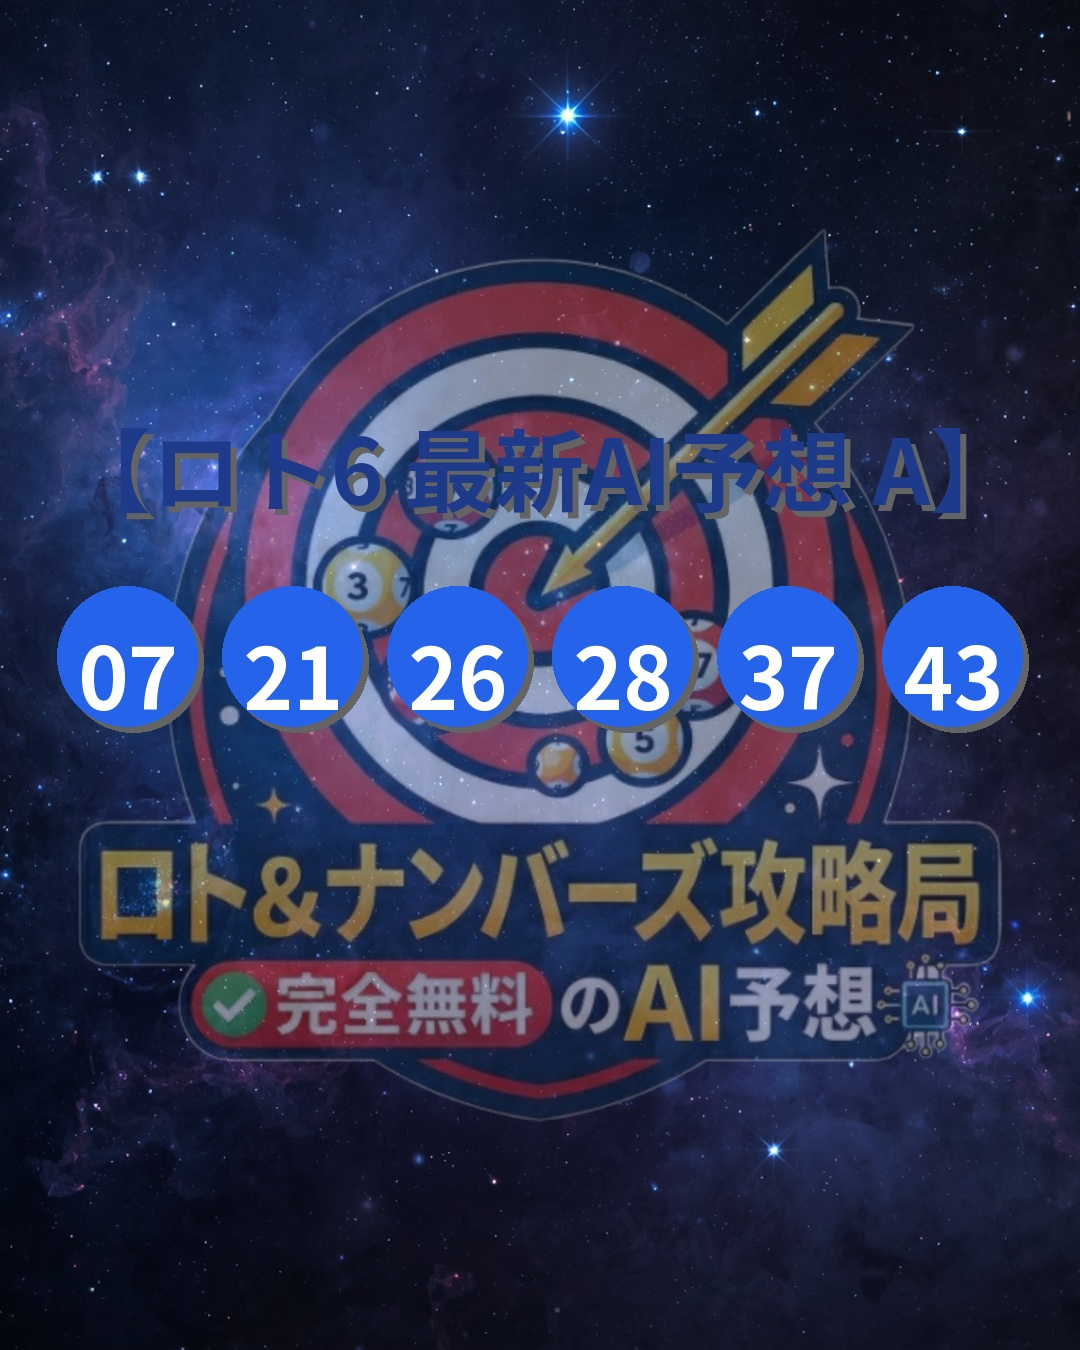
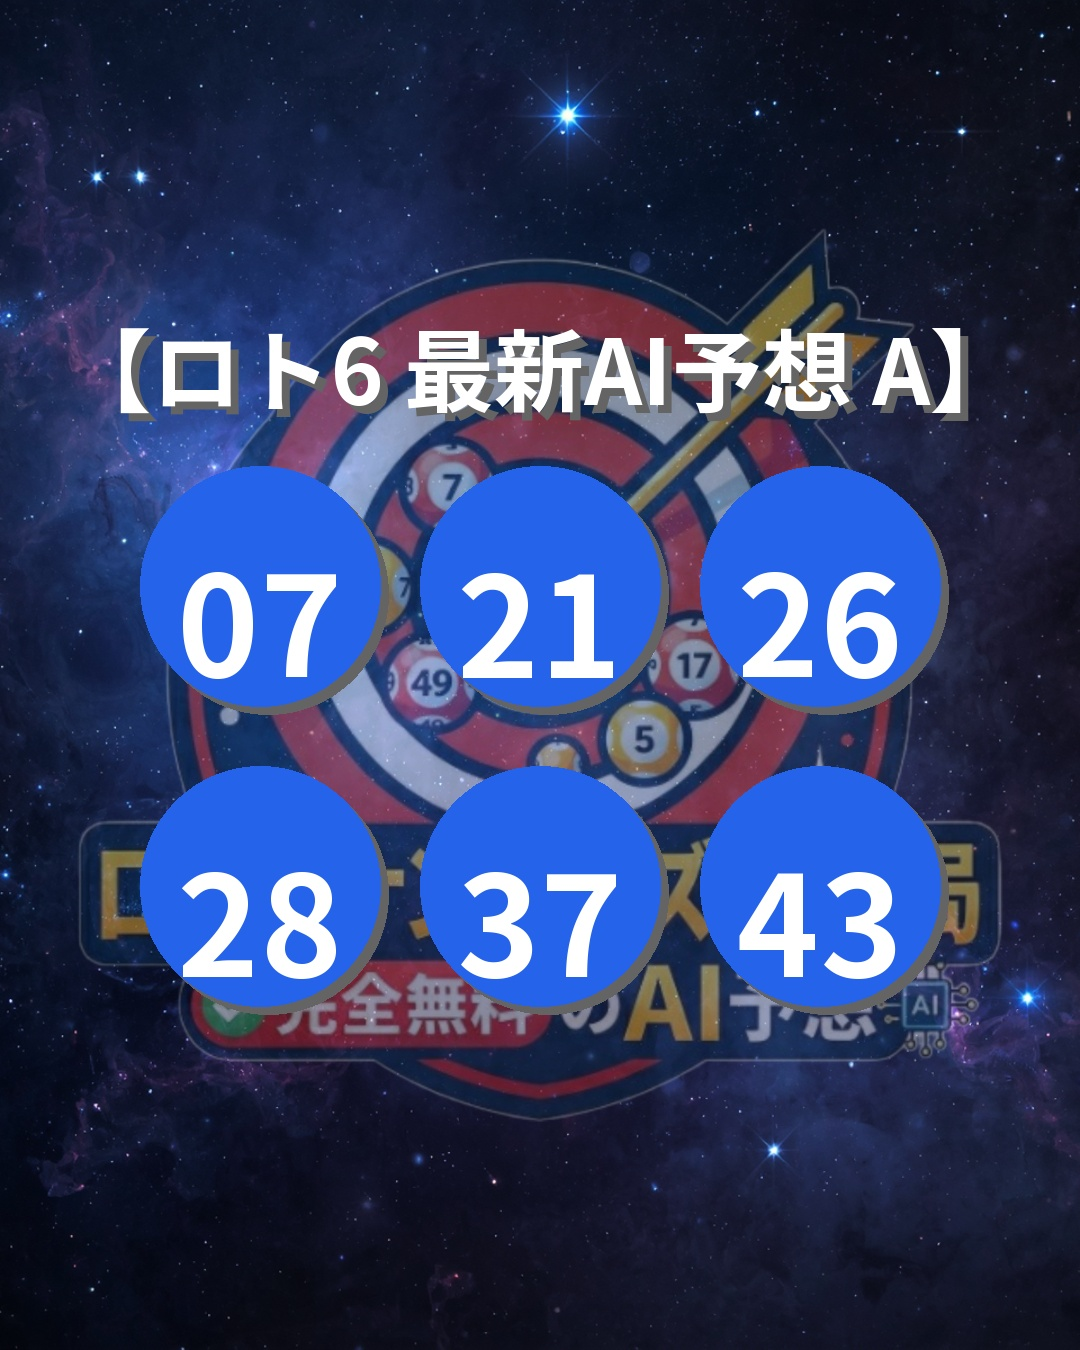
OK

Changed region(s): [[0.0306, 0.2178, 0.9778, 0.7778]]

diff --git a/update_loto7.py b/update_loto7.py
@@ -284,8 +284,8 @@ def upload_image_to_imgbb(image_path):
     # =========================================================
 
 def create_result_image(loto7_nums, carryover_info, base_image_path, output_image_path):
-    """ロト7専用：1080x1350の大画面に合わせて、文字を大きく中央揃えで描画する職人"""
-    print("🎨 ロト7専用の予想画像を生成中（中央揃え・大画面版）...")
+    """ロト7専用：1080x1350に合わせて、特大2段組（上4・下3）＆白タイトルで描画する職人"""
+    print("🎨 ロト7専用の予想画像を生成中（特大2段・白タイトル版）...")
     try:
         # 1. ベース（背景）となる画像を開く
         img = Image.open(base_image_path)
@@ -302,25 +302,28 @@ def create_result_image(loto7_nums, carryover_info, base_image_path, output_imag
         font_url = "https://github.com/google/fonts/raw/main/ofl/notosansjp/static/NotoSansJP-Bold.ttf"
         urllib.request.urlretrieve(font_url, font_path)
 
-    # --- デザイン設定 (1080x1350用に最適化) ---
+    # --- デザイン設定 (特大2段レイアウト用に最適化) ---
     shadow_color = (100, 100, 100)  # 影（グレー）
     white = (255, 255, 255)         # 文字（白）
-    title_color = (30, 58, 138)  # タイトルは濃いネイビー
+    
+    # ★タイトルの色を白に変更！
+    title_color = white
     ball_color = (217, 119, 6)   # ボールはゴールド/オレンジ
     carry_color = (220, 38, 38)  # キャリーオーバーは目立つ赤！
 
-    # ボールの設定 (1080pxの幅に7個収まる最大サイズ)
-    ball_dia = 120  # ボールの直径
-    ball_space = 20 # ボール間のスペース
-    shadow_offset = 6 # 影のズレ量
+    # ボールの設定 (最大4個並ぶので、横幅1080pxに収まる最大サイズに拡大！)
+    ball_dia = 200  # ボールの直径（120pxから大幅アップ！）
+    ball_space_x = 40 # 横のボール間のスペース
+    ball_space_y = 60 # 縦（1段目と2段目）のスペース
+    shadow_offset = 8 # 影のズレ量
 
     # フォントサイズの設定
     font_title = ImageFont.truetype(font_path, 90)
-    font_num = ImageFont.truetype(font_path, 75)
+    font_num = ImageFont.truetype(font_path, 115) # 数字も超巨大化！
     font_carry = ImageFont.truetype(font_path, 65)
 
     # 全体の上下バランスを見て、描画開始Y位置を決める
-    current_y = 400 
+    current_y = 300 
 
     # ------------------------------------------------
     # 描画1：タイトル
@@ -332,41 +335,53 @@ def create_result_image(loto7_nums, carryover_info, base_image_path, output_imag
     text_w = right - left
     title_x = (W - text_w) / 2
     
-    # タイトルの影と本体を描画
+    # タイトルの影と本体を描画（白文字）
     draw.text((title_x + shadow_offset, current_y + shadow_offset), title, font=font_title, fill=shadow_color)
     draw.text((title_x, current_y), title, font=font_title, fill=title_color)
     
-    current_y += (bottom - top) + 100 # ボール列との間隔
+    current_y += (bottom - top) + 80 # ボール列（1段目）との間隔
 
     # ------------------------------------------------
-    # 描画2：予想番号のボール（7個）
+    # 描画2：予想番号のボール（上段4個、下段3個）
     # ------------------------------------------------
-    # ★ボール列全体の中央位置を計算
-    total_ball_w = (ball_dia * 7) + (ball_space * 6)
-    ball_x = (W - total_ball_w) / 2 # 列の開始X位置
+    # 7つの数字を「上段(4個)」と「下段(3個)」の配列に分割する
+    rows = [
+        loto7_nums[:4],  # 最初の4個
+        loto7_nums[4:7]  # 残りの3個
+    ]
 
-    for digit in loto7_nums:
-        # ボールの影を描画
-        draw.ellipse([ball_x + shadow_offset, current_y + shadow_offset, ball_x + ball_dia + shadow_offset, current_y + ball_dia + shadow_offset], fill=shadow_color)
-        # ボール本体を描画
-        draw.ellipse([ball_x, current_y, ball_x + ball_dia, current_y + ball_dia], fill=ball_color)
-        
-        # ★数字がボールのド真ん中に来るように計算
-        left, top, right, bottom = draw.textbbox((0, 0), digit, font=font_num)
-        num_w = right - left
-        num_h = bottom - top
-        num_x = ball_x + (ball_dia - num_w) / 2
-        num_y = current_y + (ball_dia - num_h) / 2 - 10 # 縦位置の微調整
+    for row_nums in rows:
+        # ★その段のボールの数に合わせて全体幅を計算し、中央寄せにする
+        total_ball_w = (ball_dia * len(row_nums)) + (ball_space_x * (len(row_nums) - 1))
+        ball_x = (W - total_ball_w) / 2 
 
-        # 数字をボールの中心に描画
-        draw.text((num_x, num_y), digit, font=font_num, fill=white)
-        ball_x += ball_dia + ball_space
+        for digit in row_nums:
+            # ボールの影を描画
+            draw.ellipse([ball_x + shadow_offset, current_y + shadow_offset, ball_x + ball_dia + shadow_offset, current_y + ball_dia + shadow_offset], fill=shadow_color)
+            # ボール本体を描画
+            draw.ellipse([ball_x, current_y, ball_x + ball_dia, current_y + ball_dia], fill=ball_color)
+            
+            # ★数字がボールのド真ん中に来るように計算
+            left, top, right, bottom = draw.textbbox((0, 0), digit, font=font_num)
+            num_w = right - left
+            num_h = bottom - top
+            num_x = ball_x + (ball_dia - num_w) / 2
+            num_y = current_y + (ball_dia - num_h) / 2 - 15 # 縦位置の微調整
+
+            # 数字をボールの中心に描画
+            draw.text((num_x, num_y), digit, font=font_num, fill=white)
+            
+            # 次のボール（右）へ移動
+            ball_x += ball_dia + ball_space_x
+
+        # 1段終わったら、次の段（下）へ移動
+        current_y += ball_dia + ball_space_y
 
     # ------------------------------------------------
     # 描画3：キャリーオーバー（発生時のみ出現）
     # ------------------------------------------------
     if carryover_info:
-        current_y += ball_dia + 150 # ボールの下に移動
+        current_y += 20 # 2段目のボールとの間隔（すでにball_space_yが足されているので微調整）
         
         # キャリーオーバー文字の中央位置を計算
         left, top, right, bottom = draw.textbbox((0, 0), carryover_info, font=font_carry)
